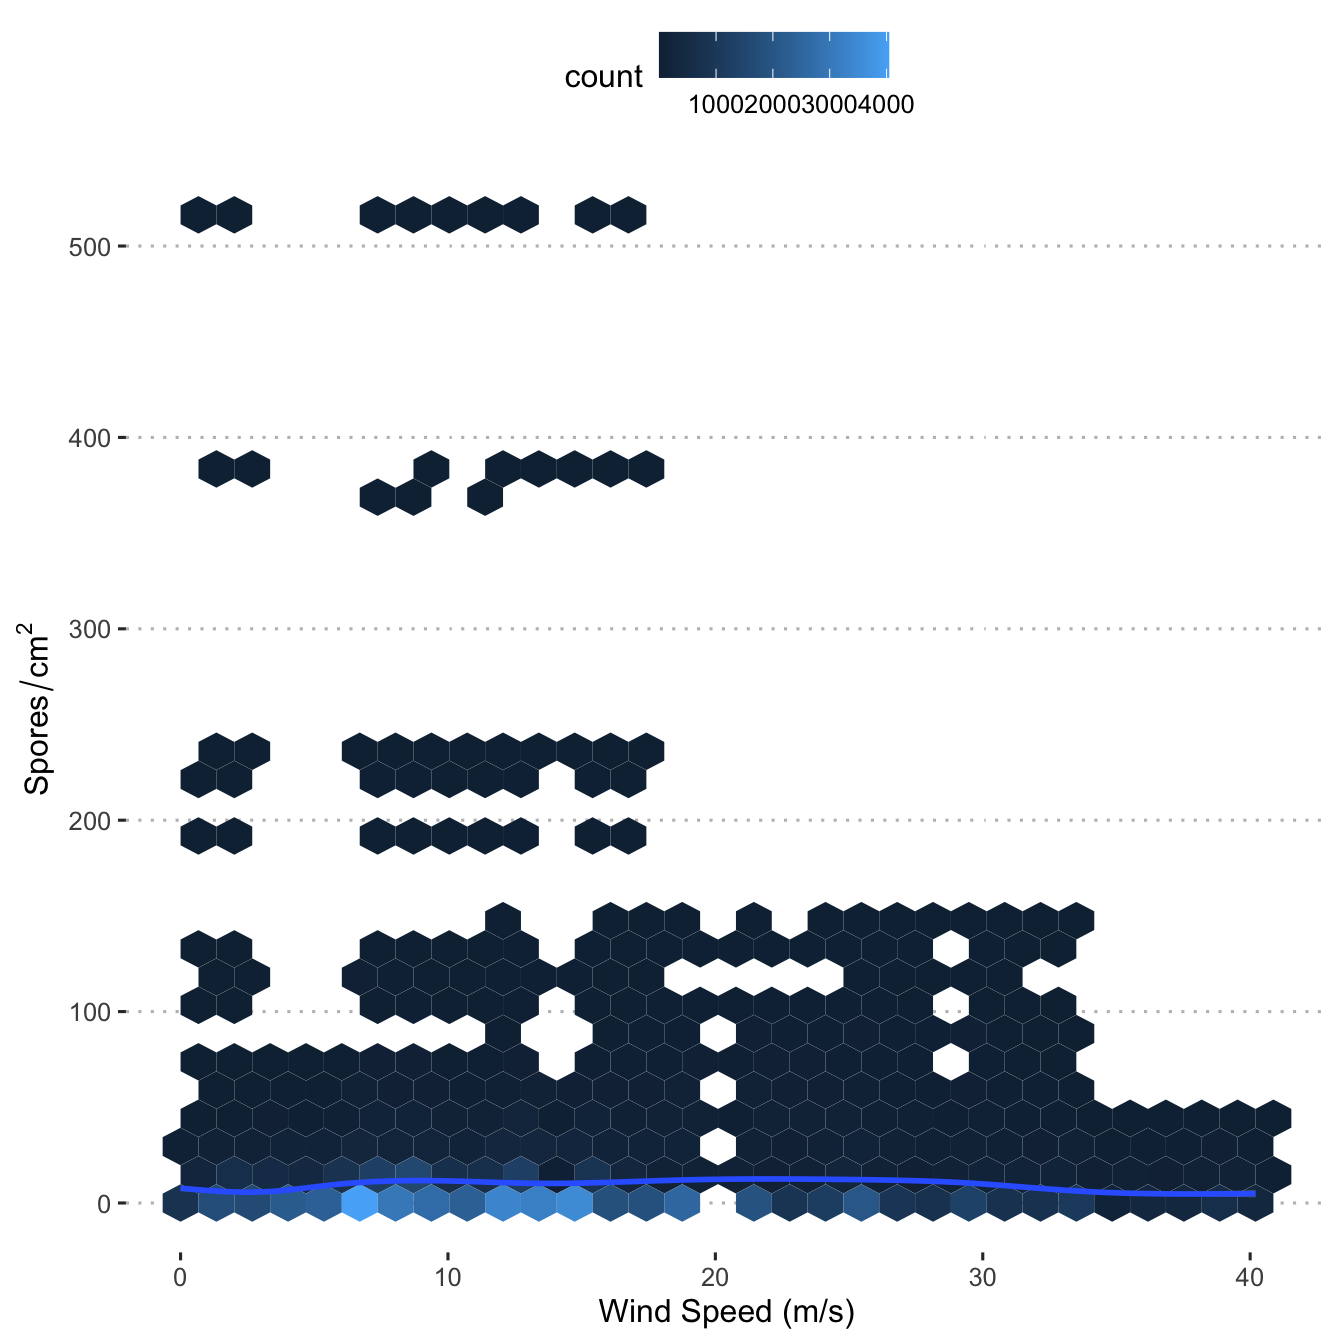
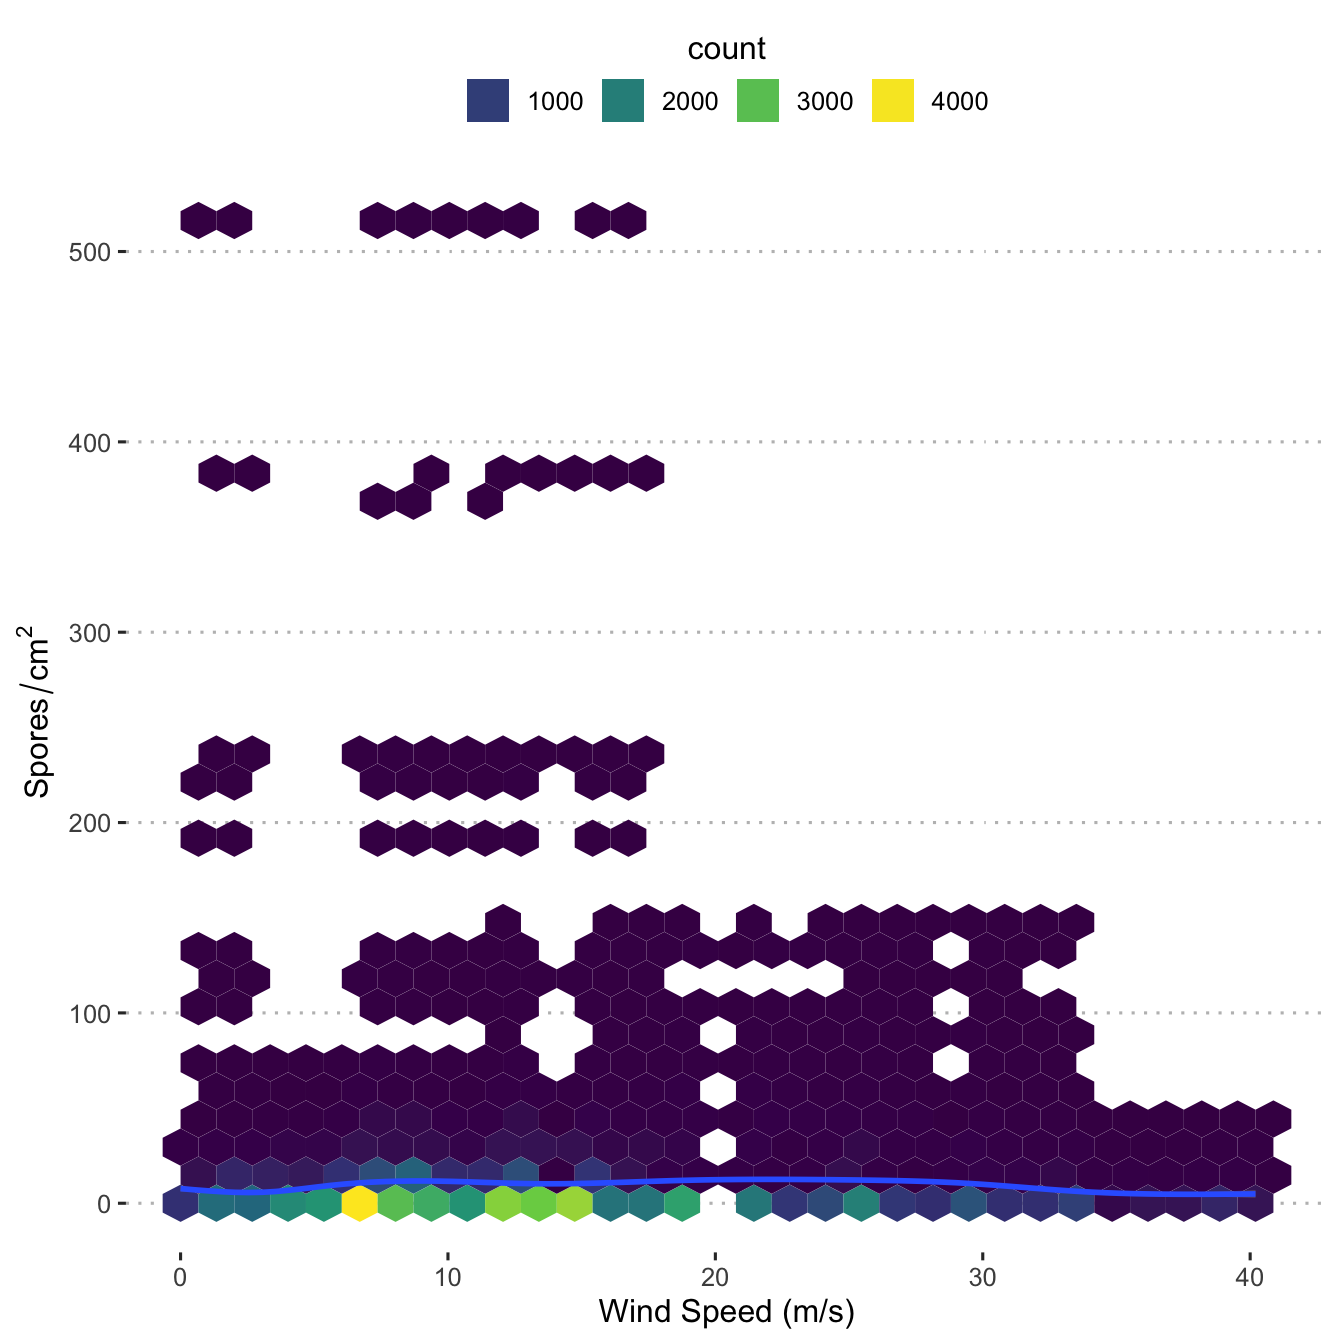
Update visualisation, clarify windspeed effect and use viridis

diff --git a/data_viz.html b/data_viz.html
@@ -530,13 +530,24 @@ spore_dat</code></pre>
 <p><img src="data_viz_files/figure-html/spore-violin-density-by-distance-1.png" width="672" /></p>
 <div id="check-windspeed-effect" class="section level4">
 <h4>Check windspeed effect</h4>
+<p>Create a hexbin plot to display the number of spores by windspeed and fit a smothed line to these variables.</p>
 <pre class="r"><code>spore_data %&gt;%
   left_join(meteo_dat, by = &quot;field&quot;) %&gt;%
   ggplot(aes(x = wind_speed, y = n_spore)) +
+  scale_fill_viridis_c() +
   geom_hex() +
   geom_smooth() +
-  labs(y = expression(Spores / cm^{2}),
-  x = &quot;Wind Speed (m/s)&quot;)</code></pre>
+  labs(y = expression(Spores / cm ^ {
+    2
+  }),
+  x = &quot;Wind Speed (m/s)&quot;) +
+  theme(
+    legend.position = &quot;top&quot;,
+    legend.background = element_blank(),
+    legend.key = element_blank()
+  ) +
+  guides(fill = guide_legend(title.position = &quot;top&quot;,
+                             title.hjust = 0.5))</code></pre>
 <p><img src="data_viz_files/figure-html/spore-windspeed-1.png" width="672" /></p>
 </div>
 <div id="polar-coordinates" class="section level4">
